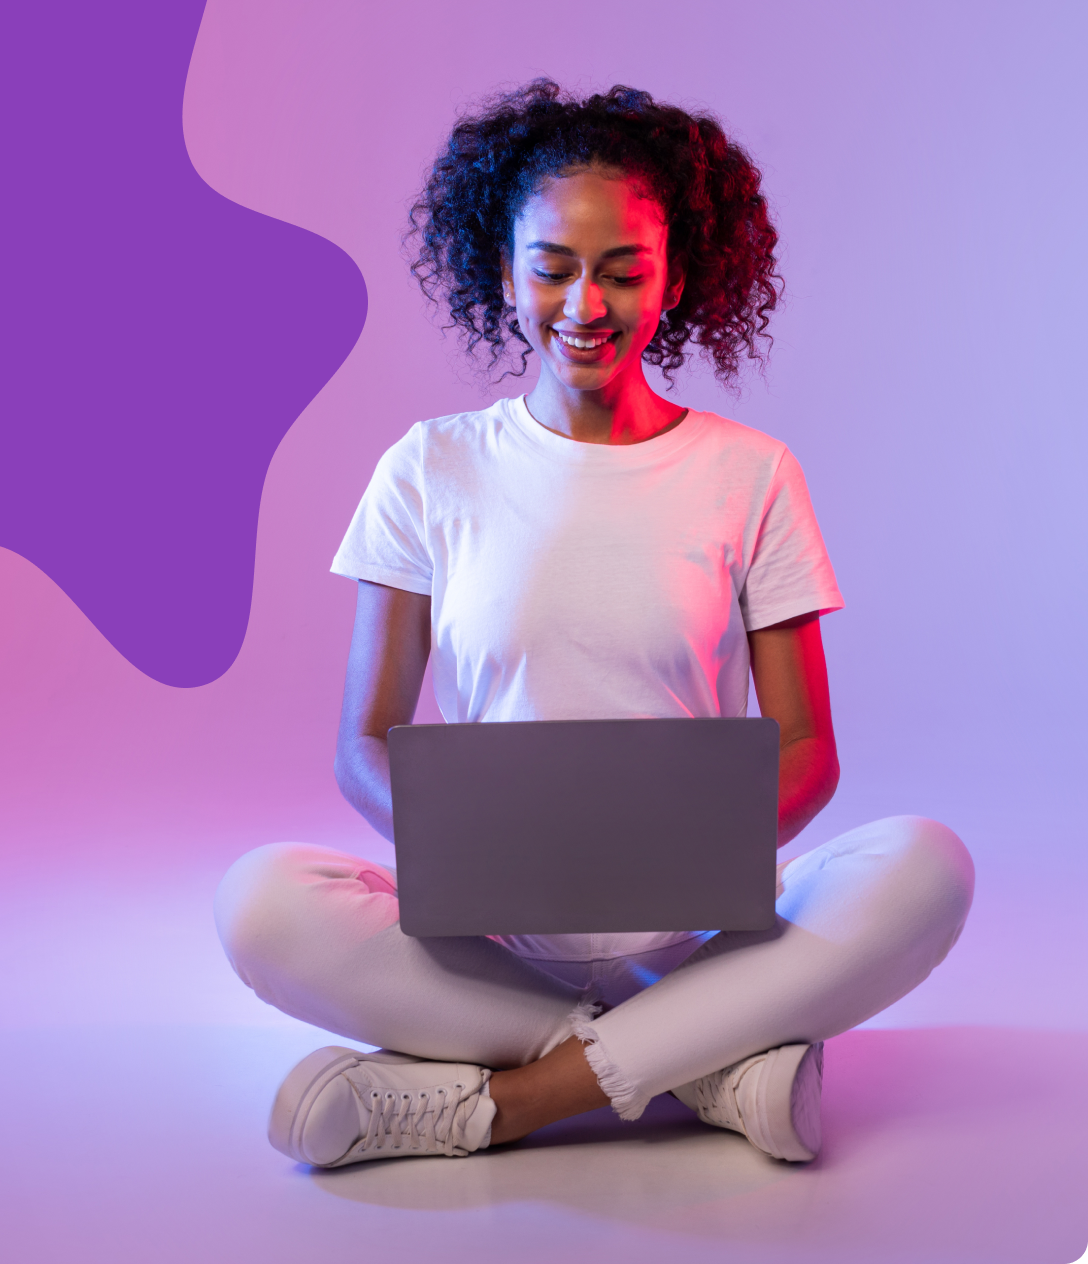
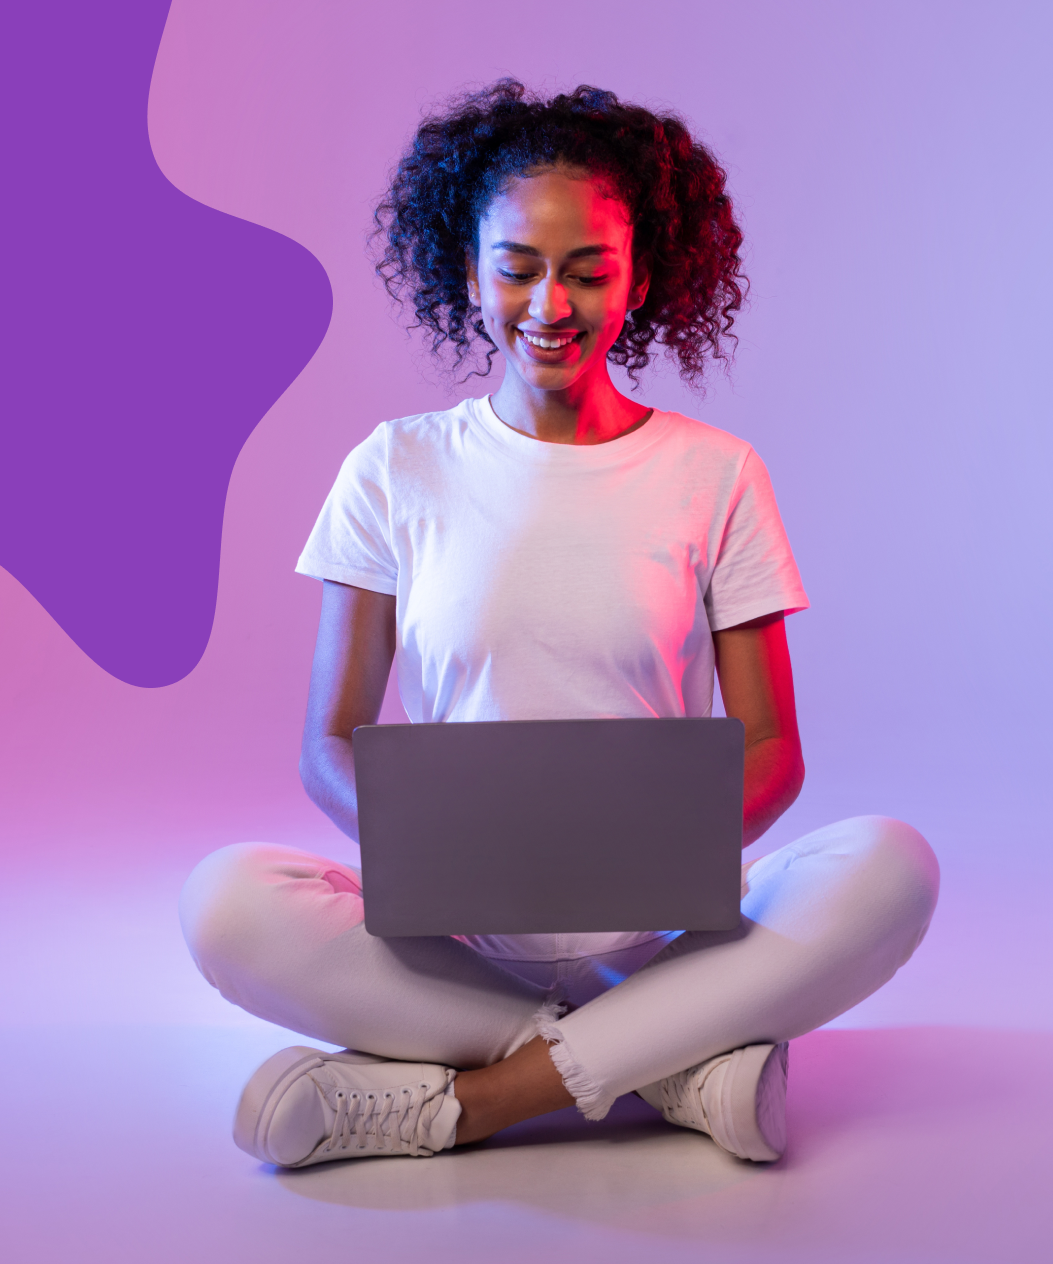
sass

diff --git a/app/src/components/Layout/LandingCover.scss b/app/src/components/Layout/LandingCover.scss
@@ -11,12 +11,8 @@
 }
 .landing-image {
   width: 100%;
-  height: auto;
-  display: block;
-  /*width: 100%;
   height: 100%;
   display: block;
   object-fit: cover;
-  aspect-ratio: 2 / 1;
-  */
+  aspect-ratio: 2.5 / 3;
 }
